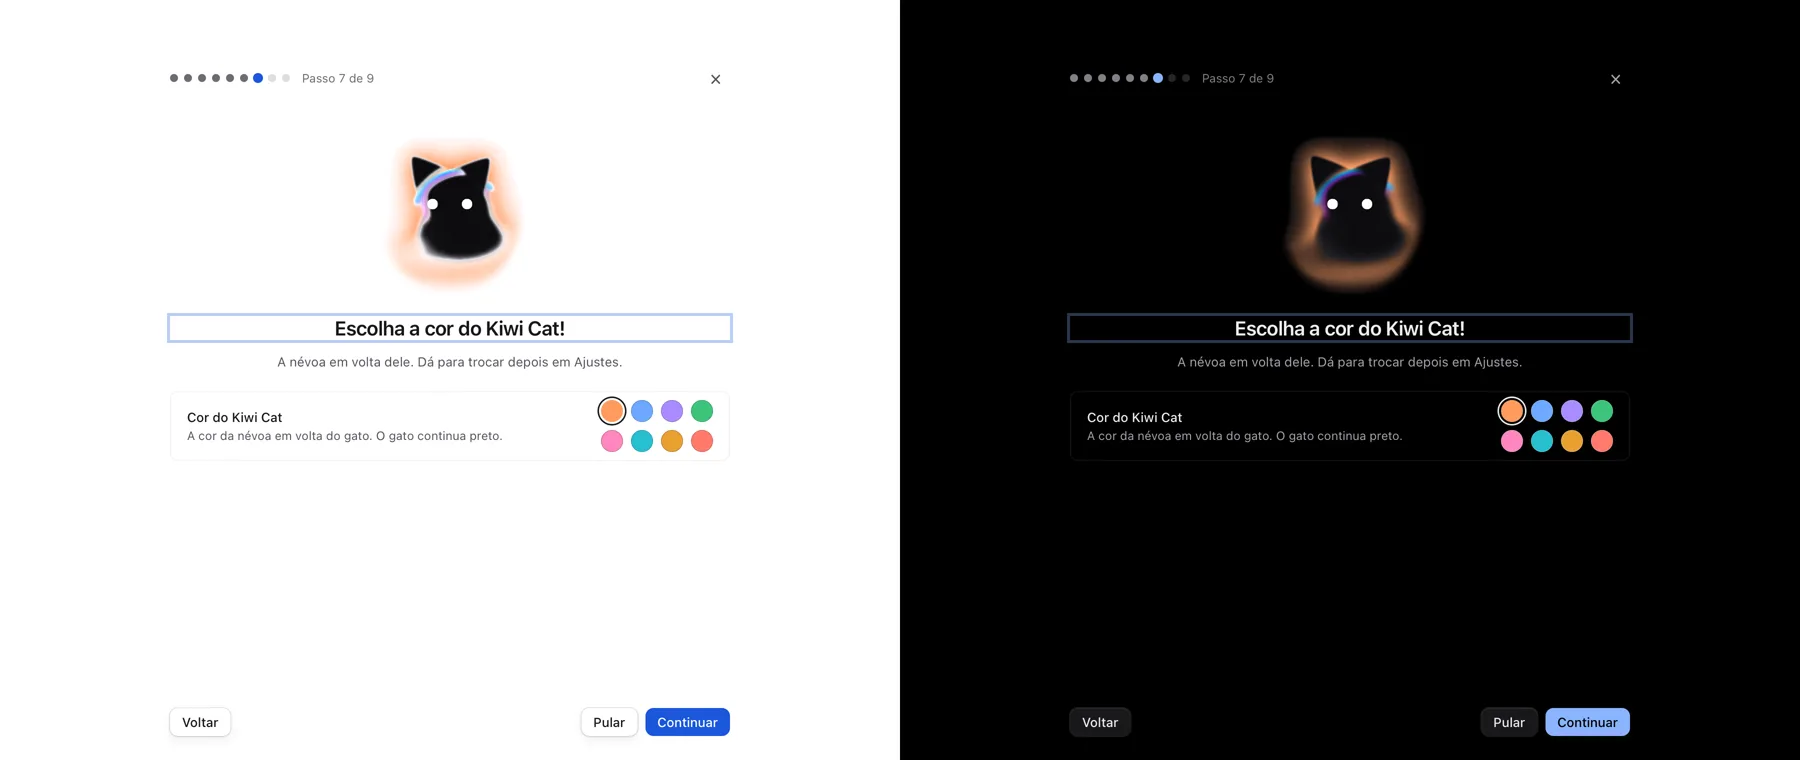
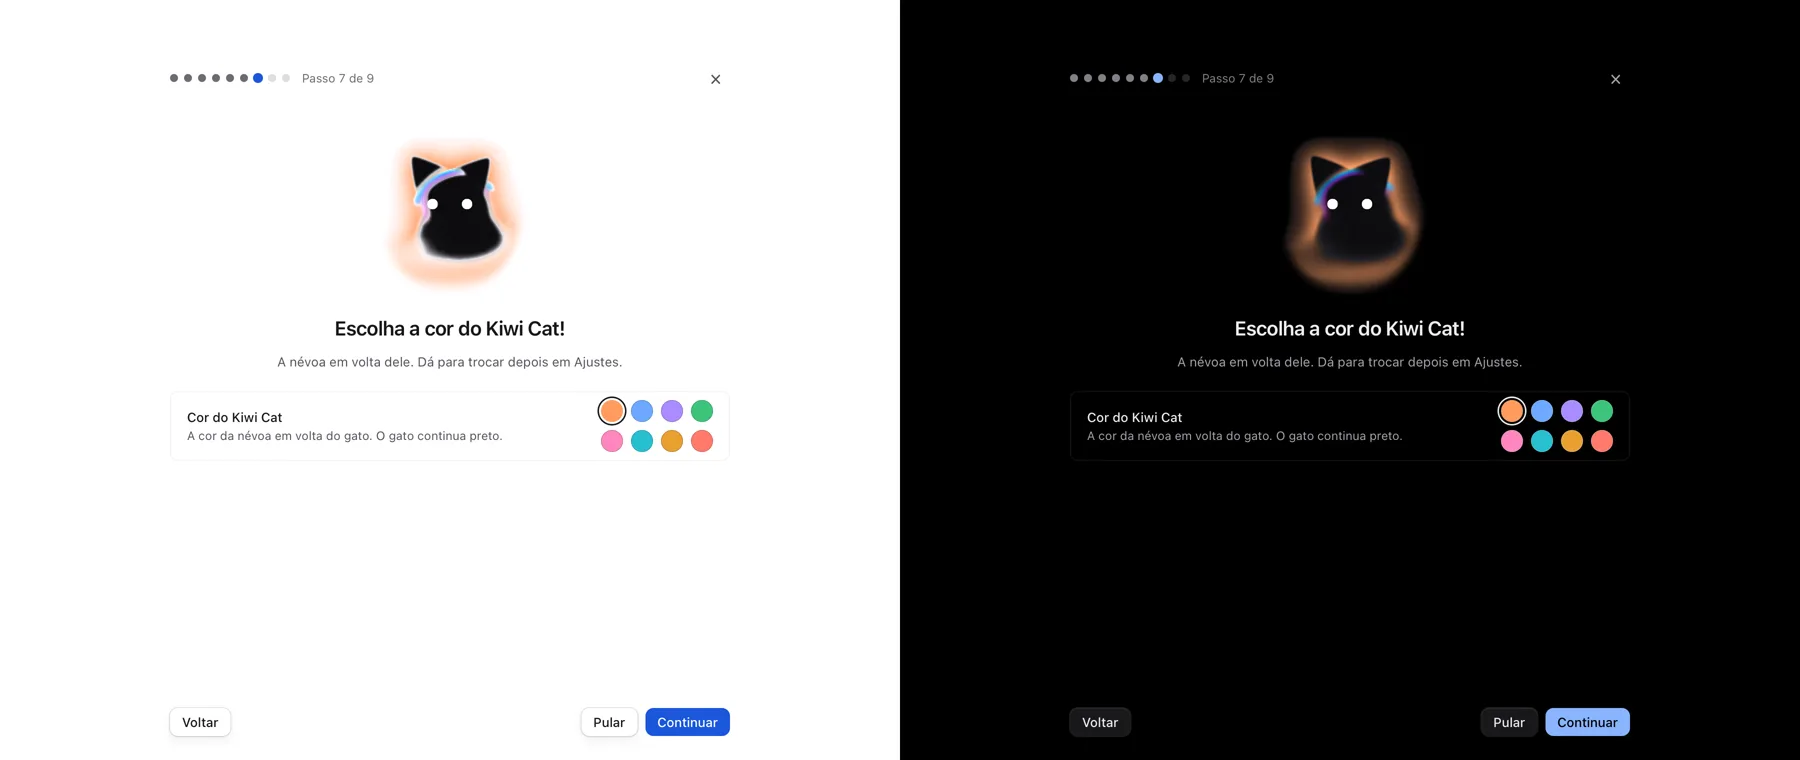
O título do passo sem o anel de foco, e "Kiwi Cat" no alt e em Sobre (T12935)
O passo põe o foco no título para o leitor de tela; com tabindex=-1 ele não está
no Tab, então o :focus-visible global não desenha mais o anel nele. O alt da
imagem do gato e a linha do three.js em Sobre também escrevem "Kiwi Cat".

Changed region(s): [[0.5911, 0.3934, 0.9022, 0.4539], [0.0933, 0.3934, 0.4044, 0.4539]]

diff --git a/app/ui/hub/aboutText.ts b/app/ui/hub/aboutText.ts
@@ -43,7 +43,7 @@ export const CREDITS: readonly { name: string; by: string; license: string; use:
   { name: "PDF.js", by: "Mozilla", license: "Apache-2.0", use: "abrir pdf nas Notas e ler pdf para o agente", pkg: "pdfjs-dist" },
   { name: "Mammoth", by: "Michael Williamson", license: "BSD-2-Clause", use: "abrir docx nas Notas e ler docx para o agente", pkg: "mammoth" },
   { name: "SheetJS Community Edition", by: "SheetJS LLC", license: "Apache-2.0", use: "abrir xlsx nas Notas, e ler e gerar xlsx com o agente", pkg: "xlsx" },
-  { name: "three.js", by: "mrdoob e colaboradores", license: "MIT", use: "névoa do Kiwi-cat", pkg: "three" },
+  { name: "three.js", by: "mrdoob e colaboradores", license: "MIT", use: "névoa do Kiwi Cat", pkg: "three" },
   // Não vem do npm: o viewer oficial vai no repo, com a licença (`scripts/drawio-viewer.ts`, T7112).
   { name: "draw.io", by: "JGraph Ltd", license: "Apache-2.0", use: "abrir diagramas .drawio nas Notas", pkg: "jgraph/drawio" },
   // Os arquivos que o agente gera (spec #11549): o pdf e o docx são montados no Mac por estas duas.

diff --git a/app/ui/hub/onboarding/onboarding.css b/app/ui/hub/onboarding/onboarding.css
@@ -37,7 +37,7 @@
 .kn-onb-cat { width: 160px; height: 200px; }
 .kn-onb-step { width: min(560px, 100%); display: grid; align-content: start; gap: var(--space-3); animation: kn-onb-in var(--slow, 240ms) var(--ease); }
 .kn-onb-title { margin: 0; font: 600 var(--text-xl) / 1.2 var(--font-display, var(--ui)); letter-spacing: var(--tracking-tight, 0); text-align: center; }
-.kn-onb-title:focus { outline: none; }
+.kn-onb-title:focus { outline: none; box-shadow: none; } /* o foco que o passo põe no título é para o leitor de tela; o título não está no Tab */
 .kn-onb-hint { margin: 0; color: var(--text-2); text-align: center; }
 .kn-onb-soon { margin: var(--space-4) 0 0; color: var(--text-3); text-align: center; font-size: var(--text-sm); }
 .kn-onb-checks { display: grid; gap: var(--space-2); margin-top: var(--space-2); }

diff --git a/app/scripts/agent-onboarding-check.ts b/app/scripts/agent-onboarding-check.ts
@@ -199,6 +199,8 @@ try {
       await invoke("agent.configure", { onboarding: { step: 7 } });
       await stepIs(p, 7);
       await p.waitForSelector("#kn-onb-title:text-is('Escolha a cor do Kiwi Cat!')", { timeout: 15000 });
+      // O foco que o passo põe no título (para o leitor de tela) não desenha o anel, nem depois de uma tecla.
+      assert.equal(await p.evaluate(() => getComputedStyle(document.activeElement!).boxShadow), "none");
       await shot(p, "7-cor-dark.png");
       await invoke("agent.configure", { onboarding: { step: 9 } });
       await stepIs(p, 9);

diff --git a/app/ui/kiwicat/index.ts b/app/ui/kiwicat/index.ts
@@ -81,7 +81,7 @@ export async function createKiwiFog(root: HTMLElement, options: FogOptions) {
   const selectedReference = options.referenceUrl ?? eyeFreeUrl;
   const fallbackReference = options.cutout ? (options.cutoutReferenceUrl ?? cutoutEyeFreeUrl) : selectedReference;
   image.src = fallbackReference;
-  image.alt = "Kiwi-cat";
+  image.alt = "Kiwi Cat";
   image.width = width;
   image.height = height;
   root.replaceChildren(image);
